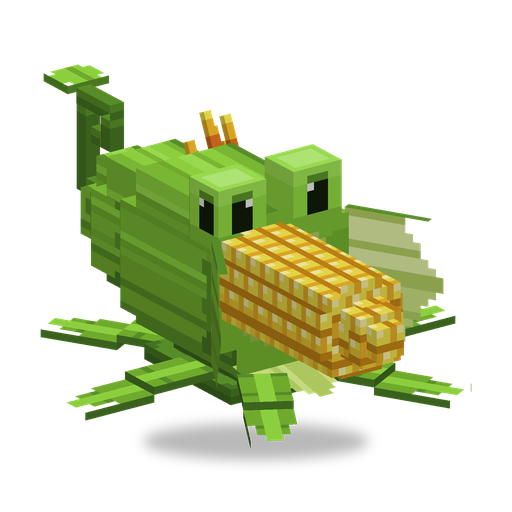
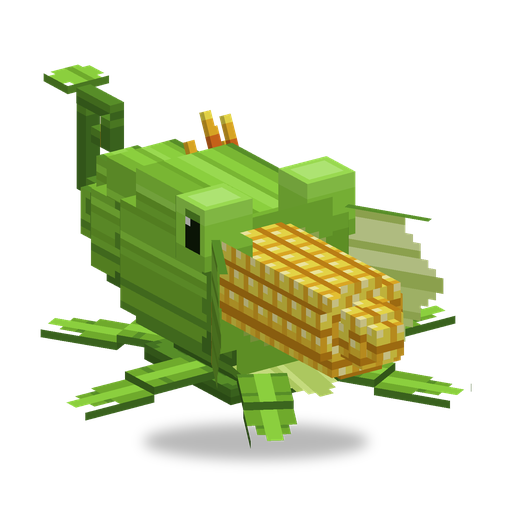
docs: Corn Cannon's eyes are on its sides

Changed region(s): [[0.3438, 0.2812, 0.7188, 0.5312]]

diff --git a/docs/ru/characters/corn_cannon.md b/docs/ru/characters/corn_cannon.md
@@ -4,7 +4,7 @@
 
 **Растение · артиллерия** · Sprout Squad
 
-Кукурузный початок, у которого обёртка раскрылась спереди, как жерло пушки, и из него выглядывает крупный початок. Над жерлом выпучены два глаза, за ними торчат рыльца, сзади растёт закрученный усик; обёртка лежит на круглом основании с шестью длинными кукурузными листьями и поворачивается на нём. Пушка поднимает нос и запускает початок как ракету по высокой дуге; там, где он падает, он взрывается, а пушка за 3 секунды выращивает новый.
+Кукурузный початок, у которого обёртка раскрылась спереди, как жерло пушки, и из него выглядывает крупный початок. По бокам над жерлом выпучено по глазу, между ними торчат рыльца, сзади растёт закрученный усик; обёртка лежит на круглом основании с шестью длинными кукурузными листьями и поворачивается на нём. Пушка поднимает нос и запускает початок как ракету по высокой дуге; там, где он падает, он взрывается, а пушка за 3 секунды выращивает новый.
 
 | | |
 |---|---|

diff --git a/CHANGELOG.md b/CHANGELOG.md
@@ -2,7 +2,7 @@
 Changes since Sprout Squad 0.2.6.
 
 ### Changes
-- Corn Cannon is twice as big and redrawn: an ear of corn whose husk opens at the front into a cannon's mouth, two eyes bulging over it, corn silk on top, lying on a hub with six long corn leaves. About 3.6 blocks long and 1.6 blocks high, a hitbox of 2.4 × 1.8 blocks, drawn at the same pixel size as other plants. Its cob is twice as big too, the husk leaves fling open as it fires, and the blast radius grows from 2.5 to 3.5 blocks. It still fits under a ceiling one block up and against walls without choking.
+- Corn Cannon is twice as big and redrawn: an ear of corn whose husk opens at the front into a cannon's mouth, an eye bulging on each side over it, corn silk on top, lying on a hub with six long corn leaves. About 3.6 blocks long and 1.6 blocks high, a hitbox of 2.4 × 1.8 blocks, drawn at the same pixel size as other plants. Its cob is twice as big too, the husk leaves fling open as it fires, and the blast radius grows from 2.5 to 3.5 blocks. It still fits under a ceiling one block up and against walls without choking.
 
 # Sprout Squad 0.2.6
 Changes since Sprout Squad 0.2.5.

diff --git a/docs/en/characters/corn_cannon.md b/docs/en/characters/corn_cannon.md
@@ -4,7 +4,7 @@
 
 **Plant · artillery** · Sprout Squad
 
-An ear of corn whose husk has opened at the front into a cannon's mouth, with a big corn cob looking out of it. Two eyes bulge over the mouth, corn silk sticks up behind them and a curly tendril grows at the back; the husk lies on a round hub with six long corn leaves, and turns on it. It lifts its nose and launches the cob like a rocket in a high arc; the cob blows up where it lands and the cannon grows a new one in 3 seconds.
+An ear of corn whose husk has opened at the front into a cannon's mouth, with a big corn cob looking out of it. An eye bulges on each side over the mouth, corn silk sticks up between them and a curly tendril grows at the back; the husk lies on a round hub with six long corn leaves, and turns on it. It lifts its nose and launches the cob like a rocket in a high arc; the cob blows up where it lands and the cannon grows a new one in 3 seconds.
 
 | | |
 |---|---|
